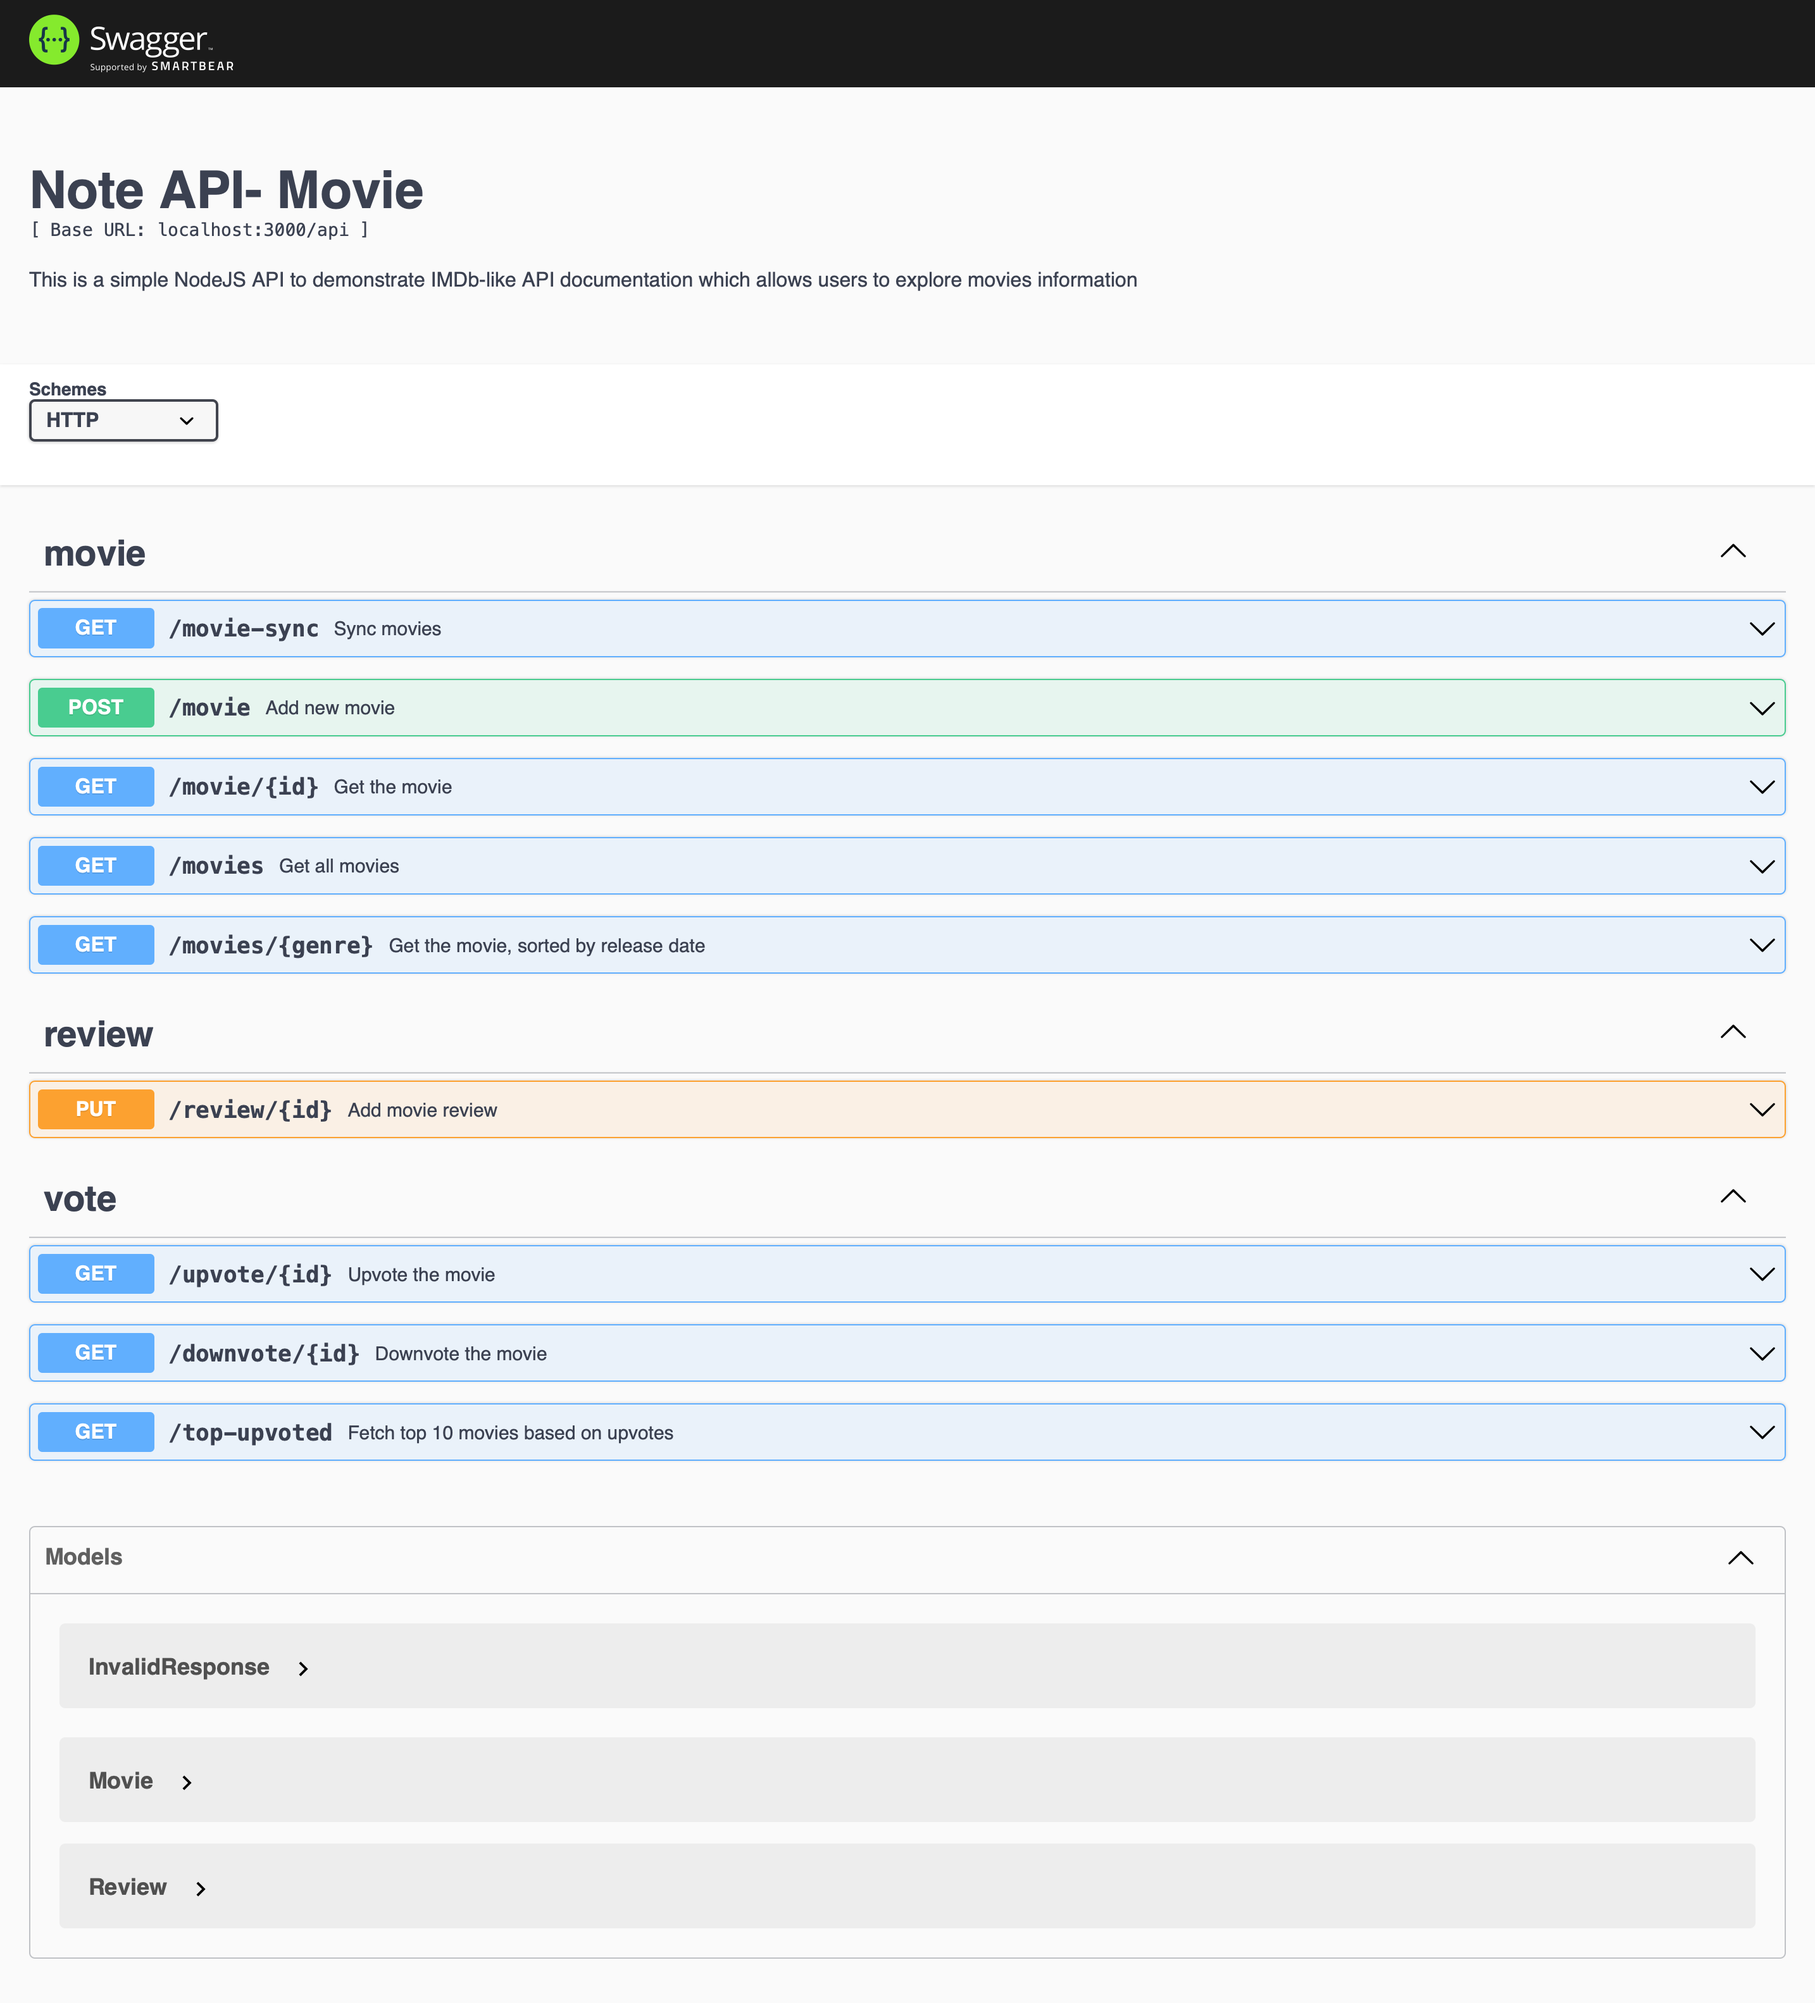
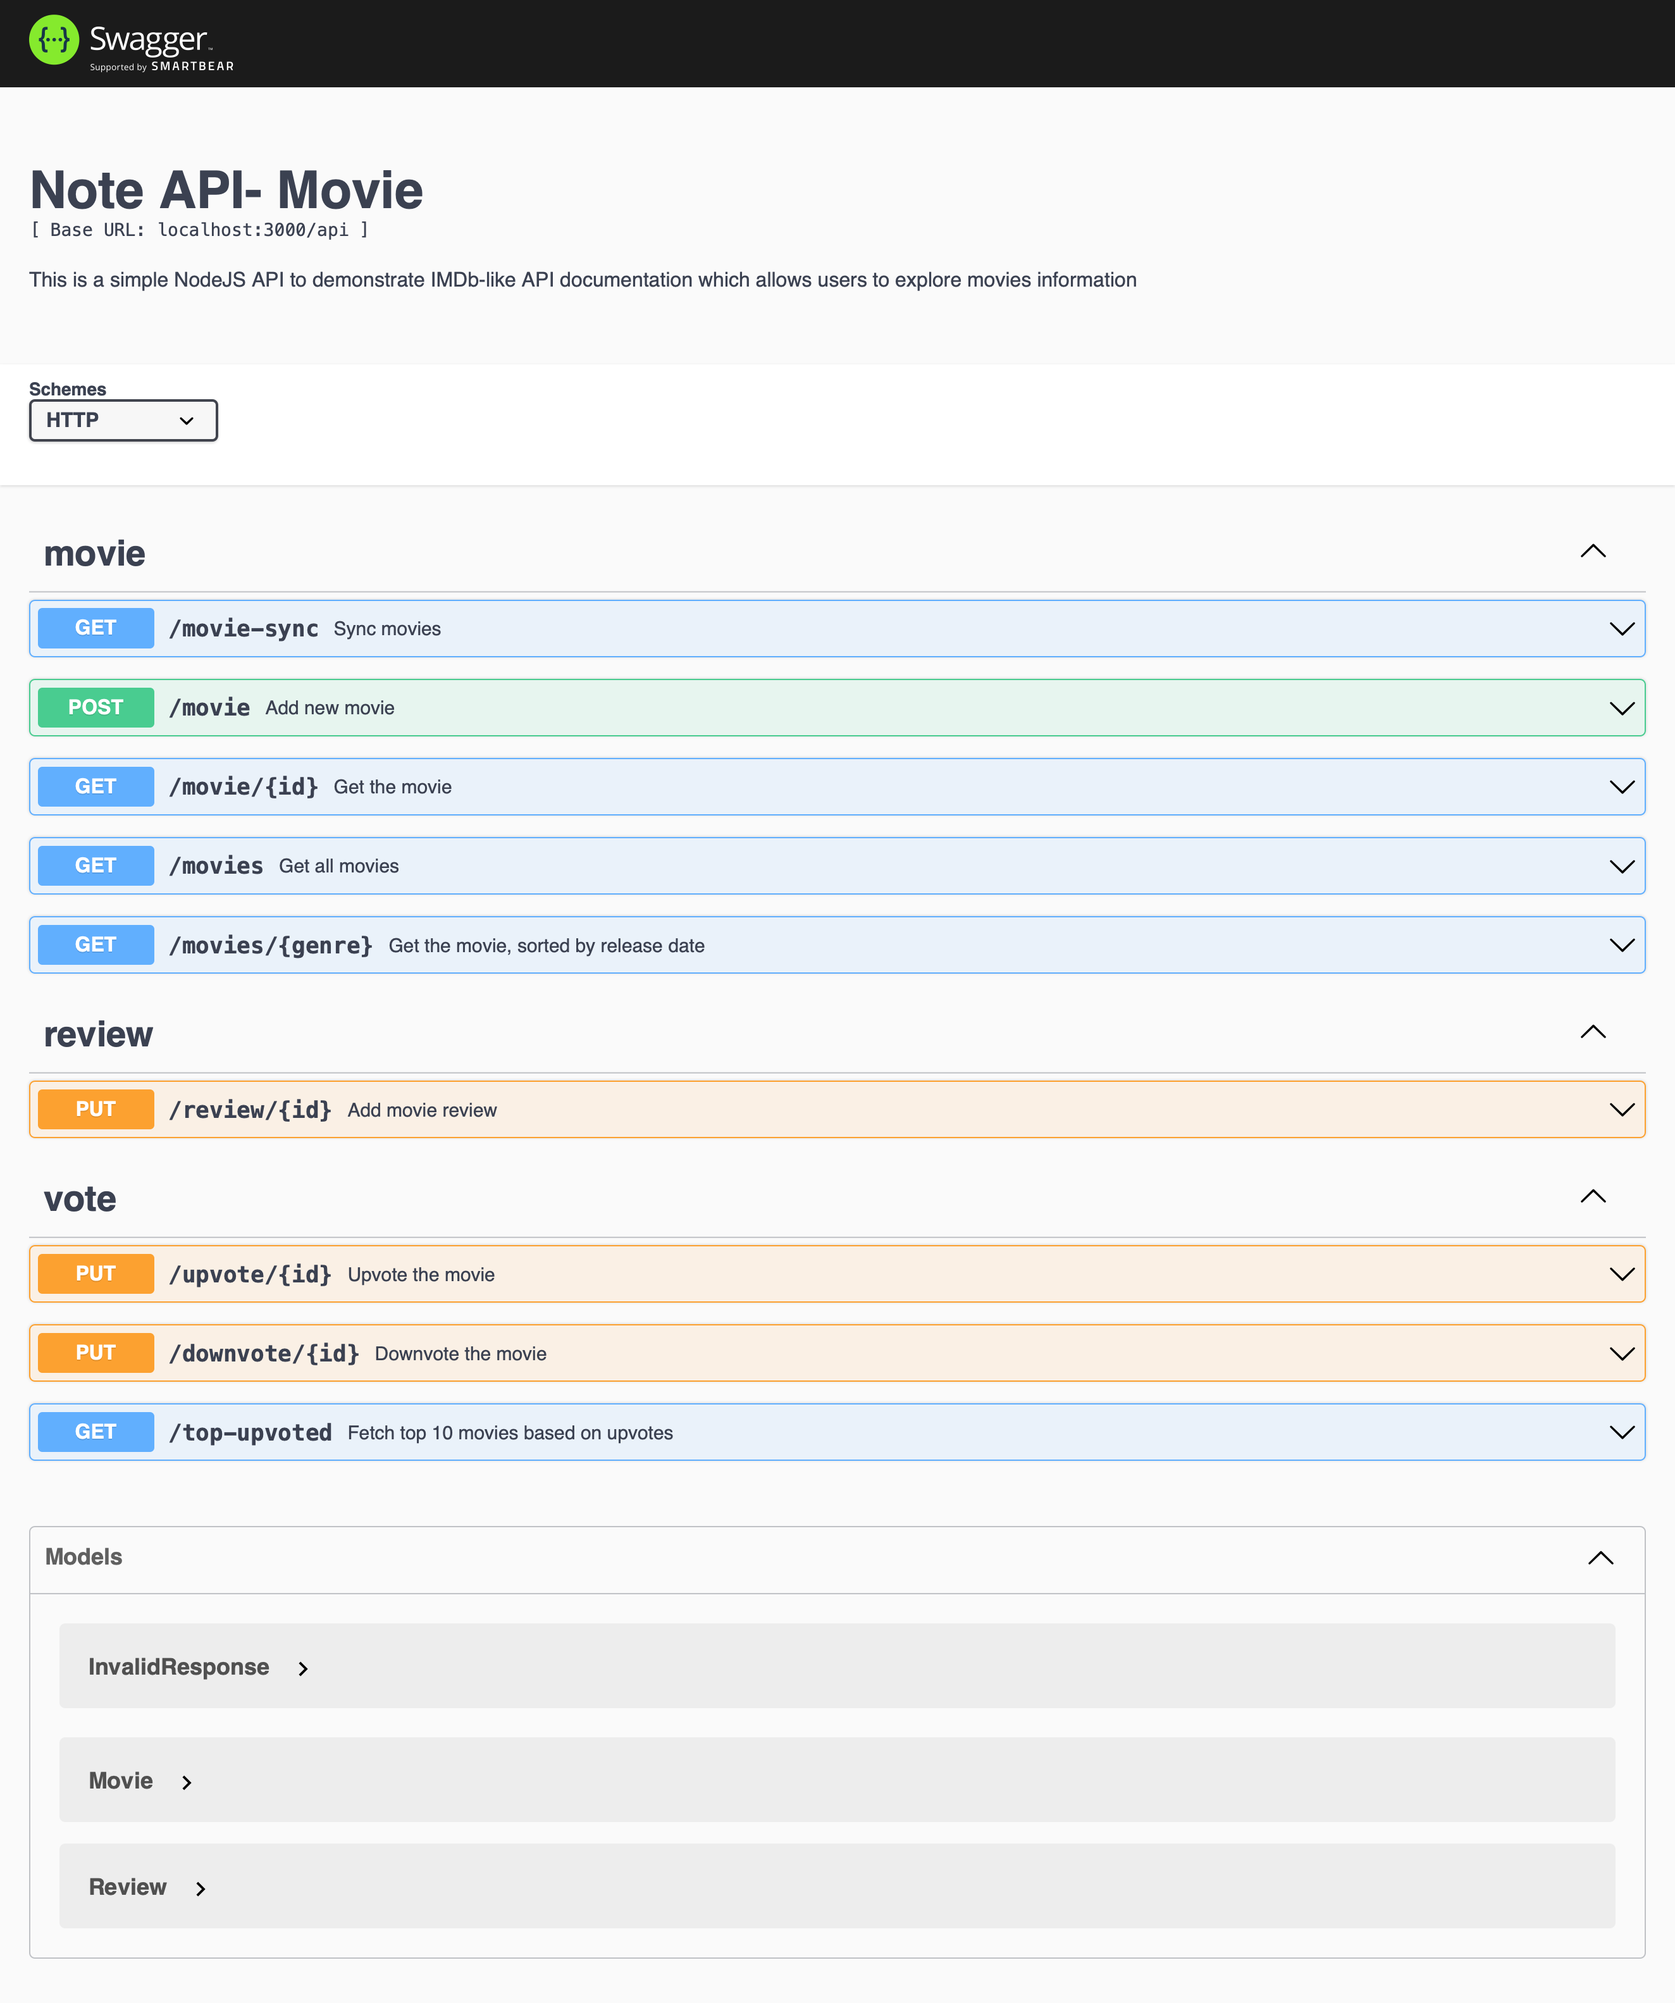
small changes in router

diff --git a/route/server.route.js b/route/server.route.js
@@ -12,8 +12,8 @@ router.route('/movies/:genre').get(movieController.searchMovie);
 router.route('/movies').get(movieController.getMoviesList);
 
 router.route('/review/:id').put(reviewController.addReview);
-router.route('/upvote/:id').get(votingController.upVotes);
-router.route('/downvote/:id').get(votingController.downVotes);
+router.route('/upvote/:id').put(votingController.upVotes);
+router.route('/downvote/:id').put(votingController.downVotes);
 router.route('/top-upvoted').get(votingController.topUpVoted);
 
 export default router;
